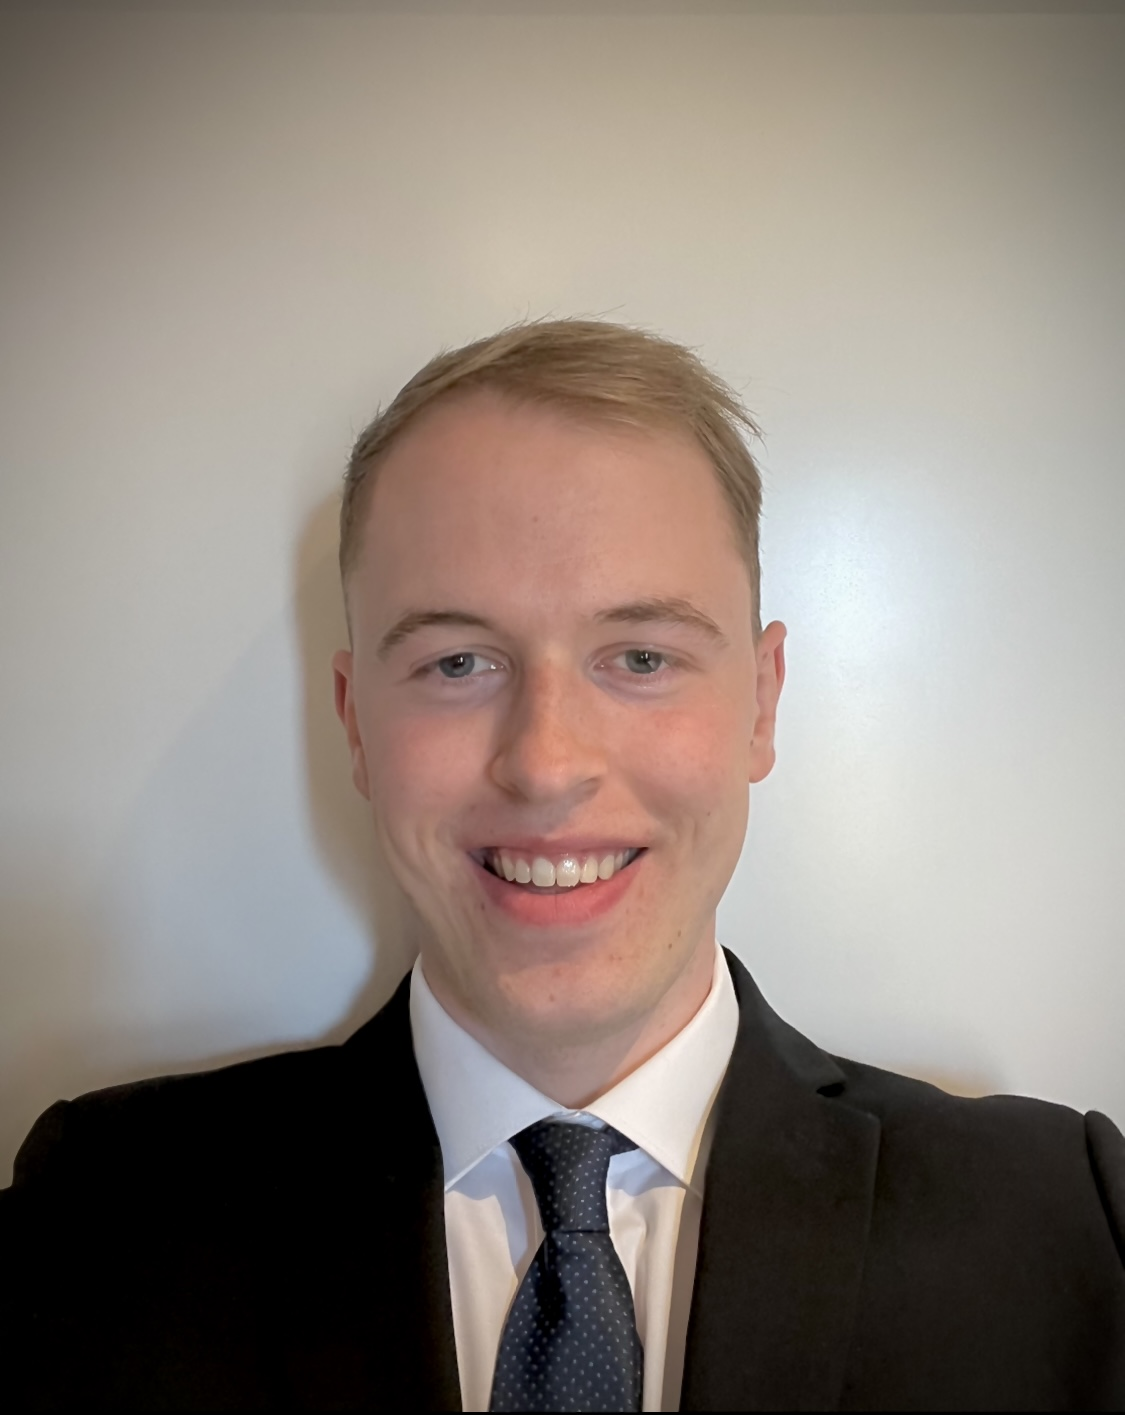
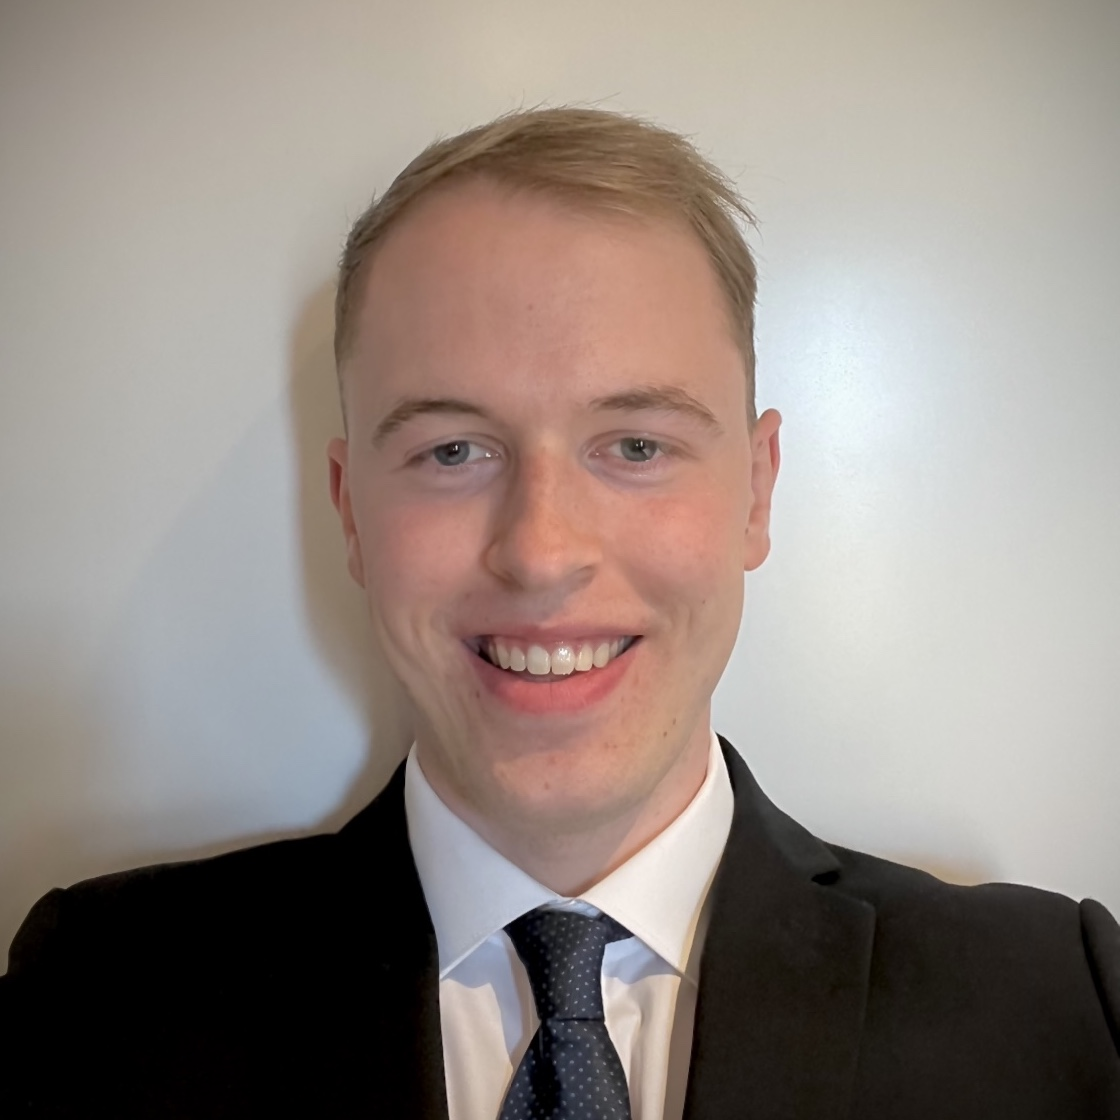
update layout homepage

diff --git a/src/styles/Home.css b/src/styles/Home.css
@@ -1,3 +1,7 @@
+/* .border-red{
+  border: 1px solid red;
+} */
+
 .home,
 .skills {
   width: 100%;
@@ -66,15 +70,64 @@
   font-size: 20px;
 }
 
-@media only screen and (max-width: 850px) {
-  .about h2 {
-    font-size: 40px;
-  }
+.wrapper {
+  width: 90%;
+  display: flex;
+  justify-content: space-between;
+  padding-bottom: 100px;
+}
 
-  .about .prompt,
+
+
+.first,
+.second {
+  display: flex;
+  flex-direction: column;
+  justify-content: center;
+  align-items: center;
+  width: 48%;  /* Adjusted to allow some space between text and image */
+}
+
+.first {
+  text-align: left;
+}
+
+.profilePicture {
+  width: 100%;
+  max-width: 400px;
+  height: 100%;
+  border-radius: 5px;
+  border: 1px solid white;
+}
+
+@media only screen and (min-width: 300px) and (max-width: 900px) {
   .first,
   .second {
     width: 100%;
+  }
+
+  .wrapper {
+    justify-content: space-around; /* Distributes items evenly */
+    flex-direction: column;
+    /* flex-direction: column-reverse; */
+  }
+
+  .about h2{
+    font-size: 40px;
+
+  }
+}
+
+
+/* Mobile Styles */
+/* @media only screen and (max-width: 850px) {
+  .wrapper {
+    flex-direction: column-reverse;
+  }
+
+  .first,
+  .second {
+    width: 100%; 
   }
 
   .first,
@@ -91,56 +144,11 @@
     text-align: center;
   }
 
-  .list {
-    padding: 0;
-  }
-
   .skills h2 {
     font-size: 30px;
   }
-}
-
-.wrapper {
-  width: 50%;
-  display: flex;
-  justify-content: space-between;
-  padding-bottom: 100px;
-}
-
-.first,
-.second {
-  display: flex;
-  justify-content: center;
-  align-items: center;
-}
-
-.first {
-  width: 100%;
-  text-align: left;
-}
-
-.second {
-  width: 50%;
-  align-items: center;
-}
-
-@media (max-width: 1300px) {
-  .wrapper,
-  .first,
-  .second {
-    text-align: center;
-    width: 80%;
-  }
 
   .wrapper {
-    flex-wrap: wrap;
+    flex-direction: column;
   }
-}
-
-.profilePicture {
-  width: 100%;
-  max-width: 400px;
-  height: auto;
-  border-radius: 5px;
-  border: 1px solid white;
-}
+} */

diff --git a/src/pages/Home.js b/src/pages/Home.js
@@ -3,6 +3,7 @@ import LinkedInIcon from "@mui/icons-material/LinkedIn";
 import EmailIcon from "@mui/icons-material/Email";
 import GitHubIcon from "@mui/icons-material/GitHub";
 import ProfilePicture from "../assets/person.jpg";
+import Phototransition from '../components/Phototransition'
 
 import "../styles/Home.css";
 
@@ -33,6 +34,7 @@ function Home() {
               window.open("https://www.github.com/jonassundt/", "_blank")
             }
           />
+          
         </div>
       </div>
       <div className="skills">
@@ -52,12 +54,7 @@ function Home() {
 
           {/* <p className="second">my photo</p> */}
           <div className="second">
-            <img
-              className="profilePicture"
-              src={ProfilePicture}
-              height={"50%"}
-              alt='profilePicture'
-            />
+              <Phototransition className='profilePicture'/>
           </div>
         </div>
       </div>

diff --git a/src/styles/Phototransition.css b/src/styles/Phototransition.css
@@ -1,0 +1,43 @@
+.photo-container {
+    position: relative;
+    /* width: 300px; 
+    height: 300px; */
+    width:100%;
+    min-height:300px;
+    height:100%;
+    overflow: hidden;
+  }
+  
+  .photo {
+    position: absolute;
+    top: 0;
+    left: 0;
+    right: 0;
+    bottom: 0;
+    width: 100%;
+    height: 100%;
+
+    background-size: contain; 
+    background-repeat: no-repeat;
+    background-position: center;
+    transition: opacity 0.5s;
+  }
+  
+  .photo1 {
+    background-image: url('../assets//personAI.png');
+    opacity: 1;
+  }
+  
+  .photo2 {
+    background-image: url('../assets/person.jpg');
+    opacity: 0;
+  }
+  
+  .photo-container:hover .photo1 {
+    opacity: 0.8;
+  }
+  
+  .photo-container:hover .photo2 {
+    opacity: 0.7;
+  }
+  

diff --git a/src/components/Phototransition.js b/src/components/Phototransition.js
@@ -1,0 +1,12 @@
+import "../styles/Phototransition.css";
+
+function PhotoTransition() {
+  return (
+    <div className="photo-container">
+      <div className="photo photo1"></div>
+      <div className="photo photo2"></div>
+    </div>
+  );
+}
+
+export default PhotoTransition;

diff --git a/src/App.css b/src/App.css
@@ -10,4 +10,7 @@
 body {
   padding: 0;
   margin: 0;
+  overflow-y: scroll;
 }
+
+
